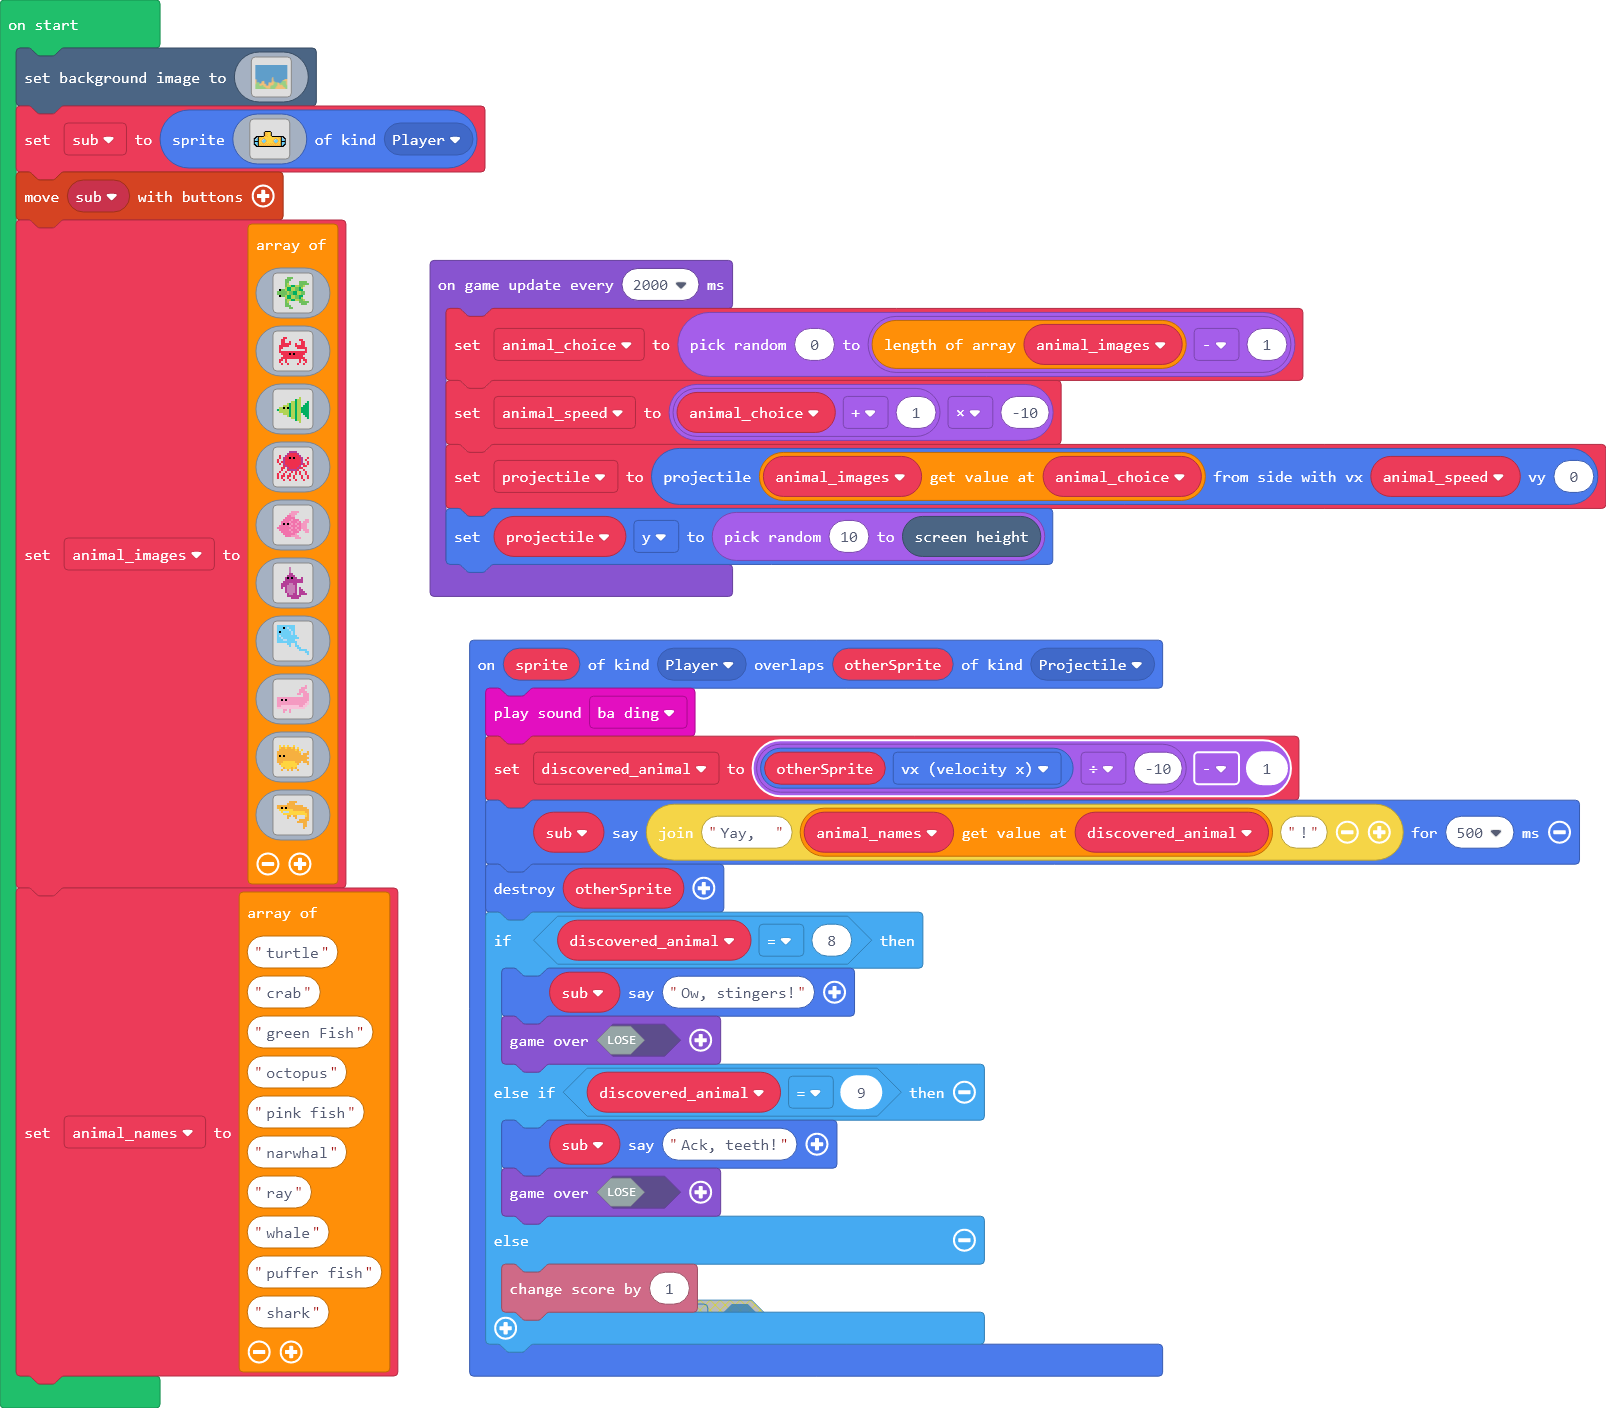
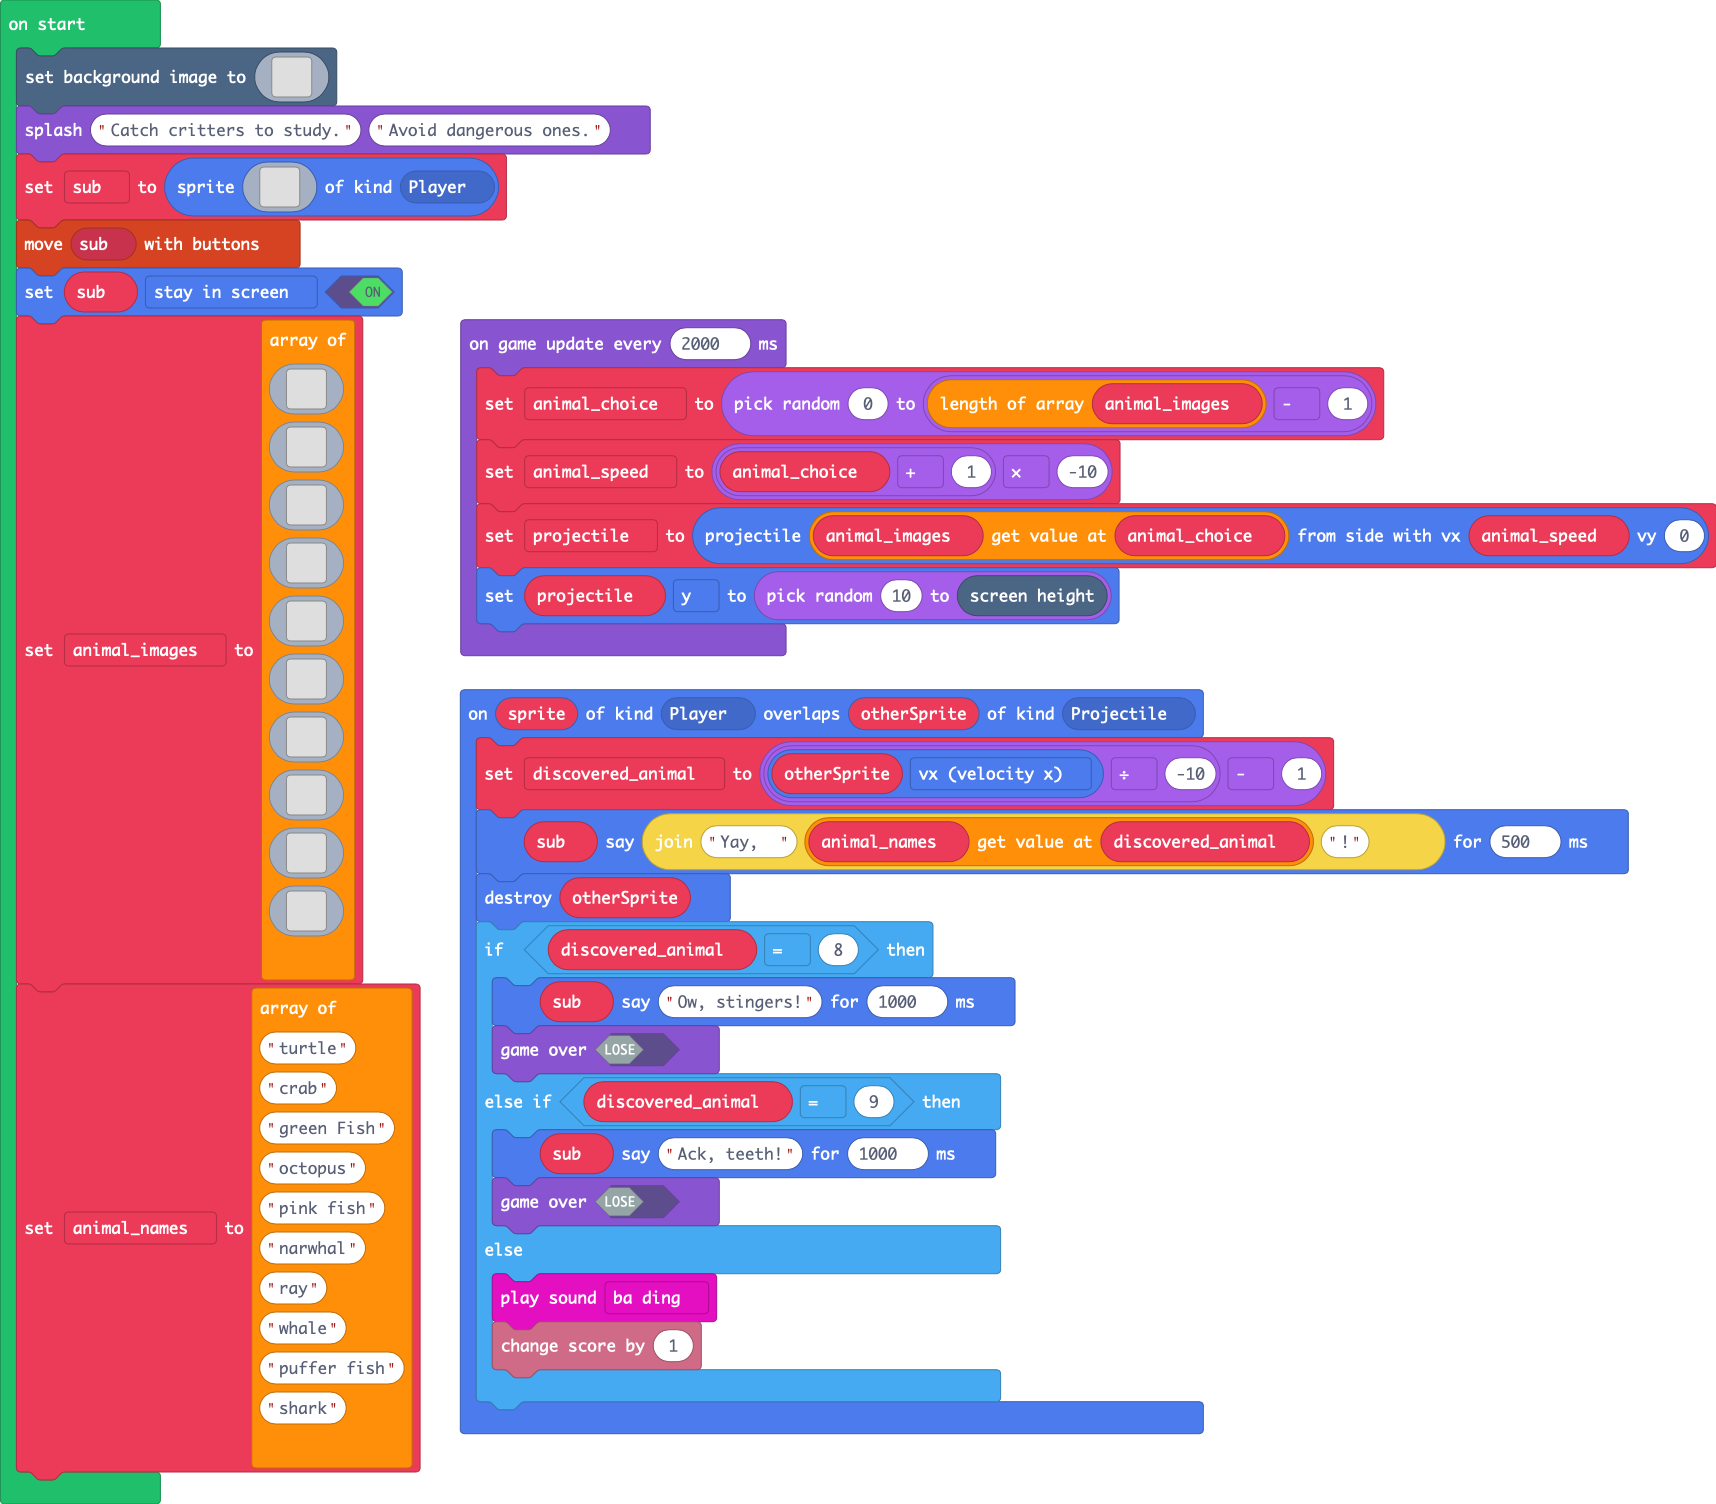
Splash screen added. Sound after critter detect.

diff --git a/main.ts b/main.ts
@@ -39,17 +39,17 @@ namespace myTiles {
 `
 }
 sprites.onOverlap(SpriteKind.Player, SpriteKind.Projectile, function (sprite, otherSprite) {
-    music.baDing.play()
     discovered_animal = otherSprite.vx / -10 - 1
     sub.say("Yay,  " + animal_names[discovered_animal] + "!", 500)
     otherSprite.destroy()
     if (discovered_animal == 8) {
-        sub.say("Ow, stingers!")
+        sub.say("Ow, stingers!", 1000)
         game.over(false)
     } else if (discovered_animal == 9) {
-        sub.say("Ack, teeth!")
+        sub.say("Ack, teeth!", 1000)
         game.over(false)
     } else {
+        music.baDing.play()
         info.changeScoreBy(1)
     }
 })
@@ -181,6 +181,7 @@ d 7 7 7 7 7 7 7 7 7 7 7 7 7 7 7 7 7 7 7 7 d d d d d d d d d d d d 7 7 7 7 7 d d 
 7 7 7 7 7 7 7 7 7 7 7 7 7 7 7 7 7 7 7 7 7 7 7 7 7 7 7 7 7 7 7 7 7 7 7 7 7 7 7 7 7 7 7 7 7 7 7 7 7 7 7 7 7 7 7 7 7 7 7 7 7 7 7 7 7 7 7 d d d d d d 7 7 7 7 7 7 7 7 7 7 7 7 7 7 7 7 7 7 7 7 7 7 7 7 7 d d d d d d d d d d d d d d d d d d d d d d d d d d d d d d d d d d d d d d d d d d d d d d d d d d d d d d 7 7 7 7 7 7 7 7 
 7 7 7 7 7 7 7 7 7 7 7 7 7 7 7 7 7 7 7 7 7 7 7 7 7 7 7 7 7 7 7 7 7 7 7 7 7 7 7 7 7 7 7 7 7 7 7 7 7 7 7 7 7 7 7 7 7 7 7 7 7 7 7 7 7 7 7 7 7 7 7 7 7 7 7 7 7 7 7 7 7 7 7 7 7 7 7 7 7 7 7 7 7 7 7 7 7 7 d d d d d d d d d d d d d d d d d d d d d d d d d d d d d d d d d d d d d d d d d d d d d d d d d d d d d d 7 7 7 7 7 7 7 7 
 `)
+game.splash("Catch critters to study.", "Avoid dangerous ones.")
 sub = sprites.create(img`
 . . . . . . . . . . . f f f f f f . . . . . . . . . . . . . . . 
 . . . . . . . . . . f d e d e e e f . . . . . . . . . . . . . . 
@@ -200,6 +201,7 @@ f f b b f d e d e d e d e d e d e d e d e d e d e d e f b b f f
 . . f f f f f f f f f f f f f f f f f f f f f f f f f f f f . . 
 `, SpriteKind.Player)
 controller.moveSprite(sub)
+sub.setFlag(SpriteFlag.StayInScreen, true)
 let animal_images = [img`
 . . . . . 7 7 7 . . . . . . . . 
 . . . . 7 7 7 . . . . . . . . . 
